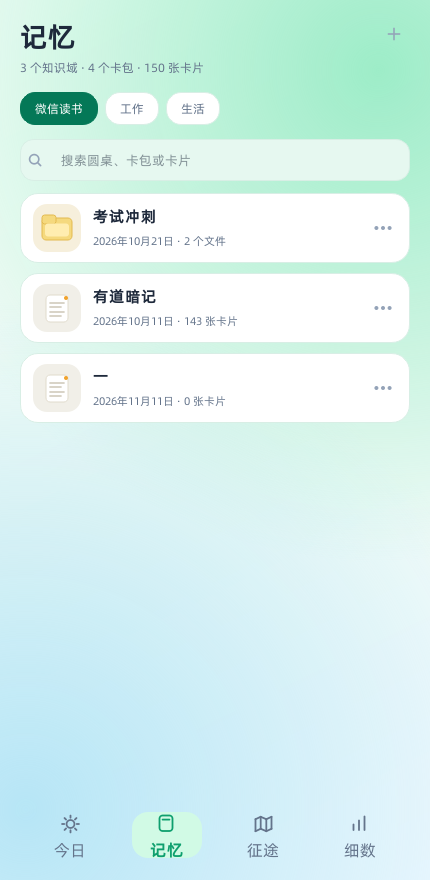
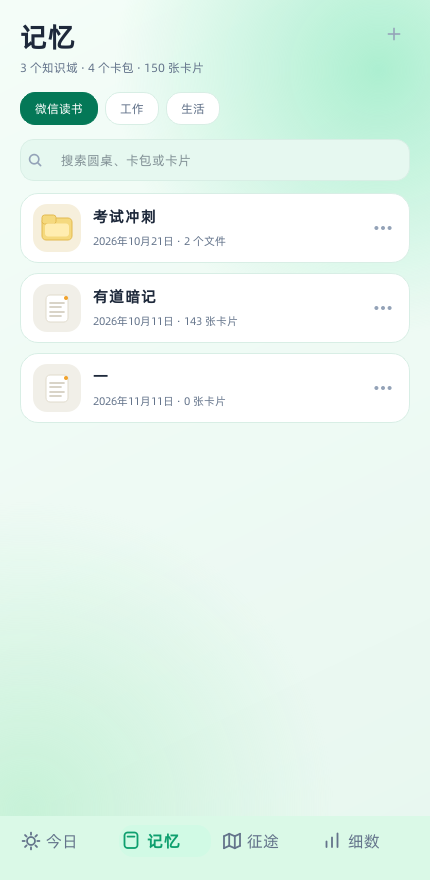
系统栏与主题同色：状态栏取主题顶部色、手势条取底部色；底部导航与手势条同色

diff --git a/app/theme.py b/app/theme.py
@@ -194,6 +194,7 @@ THEMES = {
         "dot": ("#FB923C", "#DB2777"),
         "bg": {"linear": ("#FFF7F3", "#FEF1F6", "#F6F2FF"),
                "r1": "#FFCEAA", "r2": "#FFBACE", "solid": "#FBEEE6"},
+        "bar_top": "#FFE0CC", "bar_bottom": "#FCE7F3",
         "tokens": {**_ANKI_BASE,
                    "paper": "#FCF6F4", "paper2": "#F9EBEF", "line": "#F3DEE6",
                    "brand": "#DB2777", "brand2": "#9D174D",
@@ -205,6 +206,7 @@ THEMES = {
         "dot": ("#38BDF8", "#4F46E5"),
         "bg": {"linear": ("#F3F8FF", "#EEF5FE", "#F2F3FF"),
                "r1": "#AADCFA", "r2": "#BAAFFA", "solid": "#E9F1FB"},
+        "bar_top": "#D2ECFD", "bar_bottom": "#E0E7FF",
         "tokens": {**_ANKI_BASE,
                    "paper": "#F5F8FF", "paper2": "#E9F2FE", "line": "#DEE7F8",
                    "brand": "#4F46E5", "brand2": "#3730A3",
@@ -216,6 +218,7 @@ THEMES = {
         "dot": ("#10B981", "#0EA5E9"),
         "bg": {"linear": ("#F4FDF8", "#EEFAF4", "#E7F7EF"),
                "r1": "#96EBC4", "r2": "#B8EFCD", "solid": "#E7F7F0"},
+        "bar_top": "#C3F0D9", "bar_bottom": "#DAF9E7",
         "tokens": {**_ANKI_BASE,
                    "paper": "#F4FCF9", "paper2": "#E6F8F0", "line": "#D8EEE5",
                    "brand": "#0E9F6E", "brand2": "#047857",
@@ -227,6 +230,7 @@ THEMES = {
         "dot": ("#F59E0B", "#EC4899"),
         "bg": {"linear": ("#FFFCF2", "#FDF6E9", "#FDF1EE"),
                "r1": "#FADE8C", "r2": "#FFC4C4", "solid": "#FBF3E2"},
+        "bar_top": "#FCEBB8", "bar_bottom": "#FEF3C7",
         "tokens": {**_ANKI_BASE,
                    "paper": "#FEFAF1", "paper2": "#FDF3DF", "line": "#F1E3C4",
                    "brand": "#D97706", "brand2": "#92400E",
@@ -238,6 +242,7 @@ THEMES = {
         "dot": ("#A78BFA", "#6366F1"),
         "bg": {"linear": ("#FAF7FF", "#F5F2FF", "#F1F5FF"),
                "r1": "#CEB4FC", "r2": "#B2D0FA", "solid": "#F1EBFD"},
+        "bar_top": "#E2D6FD", "bar_bottom": "#EDE9FE",
         "tokens": {**_ANKI_BASE,
                    "paper": "#F9F5FF", "paper2": "#F1ECFE", "line": "#E6DDF8",
                    "brand": "#7C3AED", "brand2": "#5B21B6",
@@ -249,6 +254,7 @@ THEMES = {
         "dot": ("#F97316", "#DB2777"),
         "bg": {"linear": ("#FFF8F4", "#FEF3EC", "#FDF9F0"),
                "r1": "#FFB09E", "r2": "#FCD698", "solid": "#FDECE4"},
+        "bar_top": "#FFD2C6", "bar_bottom": "#FFEDD5",
         "tokens": {**_ANKI_BASE,
                    "paper": "#FFF7F2", "paper2": "#FDECE6", "line": "#F6DFD3",
                    "brand": "#EA580C", "brand2": "#9A3412",
@@ -260,6 +266,7 @@ THEMES = {
         "dot": ("#06B6D4", "#6366F1"),
         "bg": {"linear": ("#F4FDFD", "#EEFAFB", "#F1F6FF"),
                "r1": "#8AE4E4", "r2": "#A6C4FA", "solid": "#E6F6F7"},
+        "bar_top": "#C0F0F0", "bar_bottom": "#CFFAFE",
         "tokens": {**_ANKI_BASE,
                    "paper": "#F3FBFC", "paper2": "#E5F8F9", "line": "#D8EEF1",
                    "brand": "#0891B2", "brand2": "#155E75",

diff --git a/app/app.py b/app/app.py
@@ -9,7 +9,7 @@ import sys
 import threading
 
 from PySide6.QtCore import QEvent, QTimer, Qt
-from PySide6.QtGui import QFont, QFontDatabase, QPainter
+from PySide6.QtGui import QColor, QFont, QFontDatabase, QPainter
 from PySide6.QtWidgets import (QMainWindow, QWidget, QHBoxLayout, QVBoxLayout,
                                QStackedWidget, QFrame, QLabel, QApplication,
                                QButtonGroup, QDialog, QSizePolicy)
@@ -121,8 +121,20 @@ class BgLayer(QWidget):
     def paintEvent(self, e):
         p = QPainter(self)
         p.setRenderHint(QPainter.Antialiasing, True)
-        tid = getattr(self.window(), "theme_id", None)
+        win = self.window()
+        tid = getattr(win, "theme_id", None)
         theme.paint_page_bg(p, self.rect(), tid)
+        # 状态栏 / 手势条区域：用主题取色，跟 App 顶部 / 底部同色
+        top = int(getattr(win, "_sys_top", 0) or 0)
+        bottom = int(getattr(win, "_sys_bottom", 0) or 0)
+        if top > 0 or bottom > 0:
+            info = theme.theme_info(tid)
+            if top > 0:
+                p.fillRect(0, 0, self.width(), top,
+                           QColor(info.get("bar_top", "#FFFFFF")))
+            if bottom > 0:
+                p.fillRect(0, self.height() - bottom, self.width(), bottom,
+                           QColor(info.get("bar_bottom", "#FFFFFF")))
 
 
 class MainWindow(QMainWindow):
@@ -273,10 +285,11 @@ class MainWindow(QMainWindow):
         app.setFont(QFont(theme.FONT, 9))
         app.setStyleSheet(theme.build_qss(t))
         self.setStyleSheet(f"QMainWindow{{background:{t['paper2']};}}")
-        # 底部导航条：半透明品牌色打底 + 胶囊表达选中态
-        brand_soft = t.get("brand_soft", t["paper"])
+        # 底部导航条：与系统手势条同色打底 + 胶囊表达选中态
+        info = theme.theme_info(self.theme_id)
+        nav_bg = info.get("bar_bottom", t.get("brand_soft", t["paper"]))
         self.nav.setStyleSheet(
-            f"QFrame#navFrame{{background:{brand_soft};border:none;}}"
+            f"QFrame#navFrame{{background:{nav_bg};border:none;}}"
         )
         self.nav_bar.setStyleSheet("QFrame#navBar{background:transparent;border:none;}")
         for b in self.nav_buttons.values():
@@ -305,8 +318,12 @@ class MainWindow(QMainWindow):
                 margins = wh.safeAreaMargins()
                 top = max(0, margins.top())
                 bottom = max(0, margins.bottom())
+        self._sys_top = top
+        self._sys_bottom = bottom
         if hasattr(self, "root_layout"):
             self.root_layout.setContentsMargins(0, top, 0, bottom)
+        if hasattr(self, "bg"):
+            self.bg.update()
         if top + bottom > 0 and not getattr(self, "_insets_logged", False):
             self._insets_logged = True
             write_log = getattr(sys, "froglog_log", None)

diff --git a/app/README.md b/app/README.md
@@ -103,6 +103,8 @@ python main.py
 
 主题只改页面渐变底色与界面配色（纸色/面板/线条/主色/语义色/阴影）；复习卡区（红框）仍用「卡片模板」页的 7 套皮肤（天蓝薰衣等），7 套卡片模板保持不变。选择存在 settings.theme；旧版本的 paper / mist / cream / ink / celadon / sunset / night / dusk 会回落到 anki-mint（薄荷）。
 
+安卓上状态栏取当前主题的 `bar_top`、底部手势条取 `bar_bottom`，底部导航条与手势条同色（薄荷：`#C3F0D9` / `#DAF9E7`），系统栏透明后由 App 自己的渐变/纯色条铺满。
+
 ## 调度算法：FSRS-6（Anki 26 默认）
 
 
